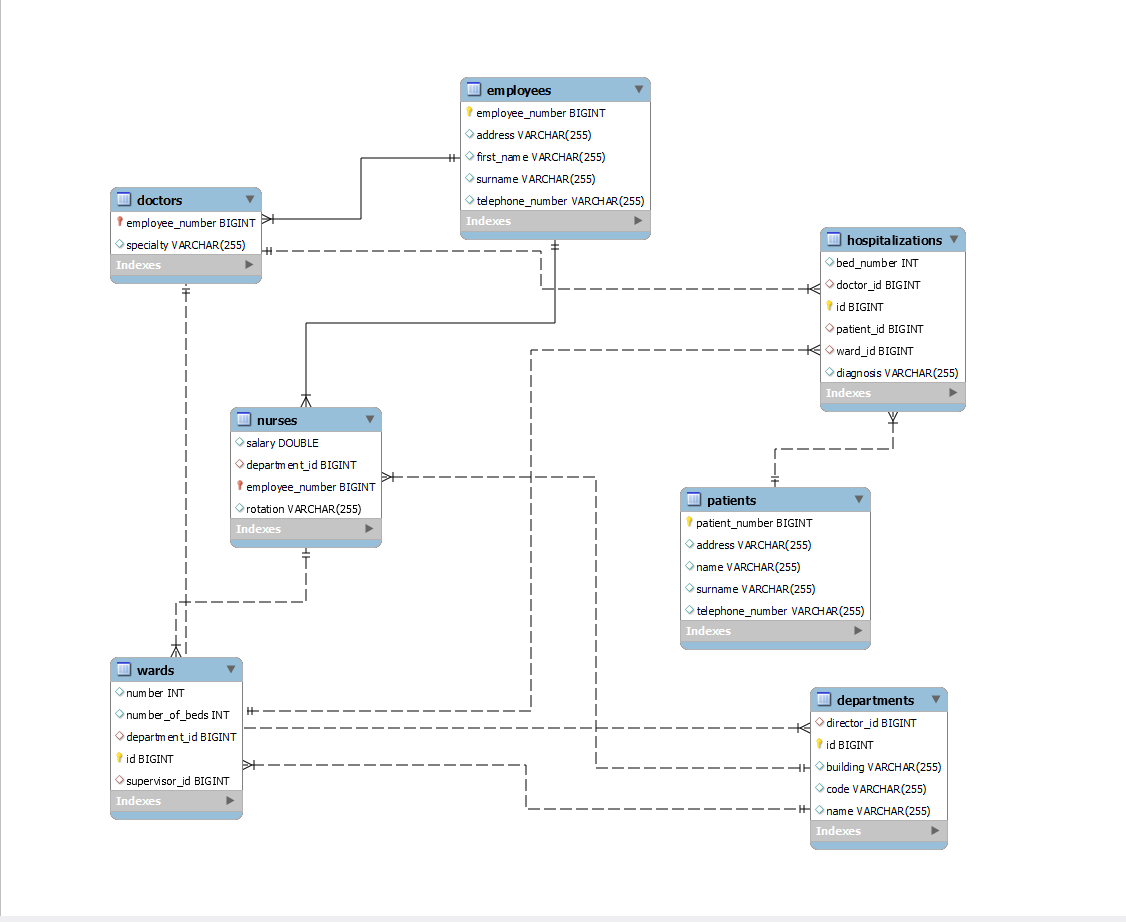
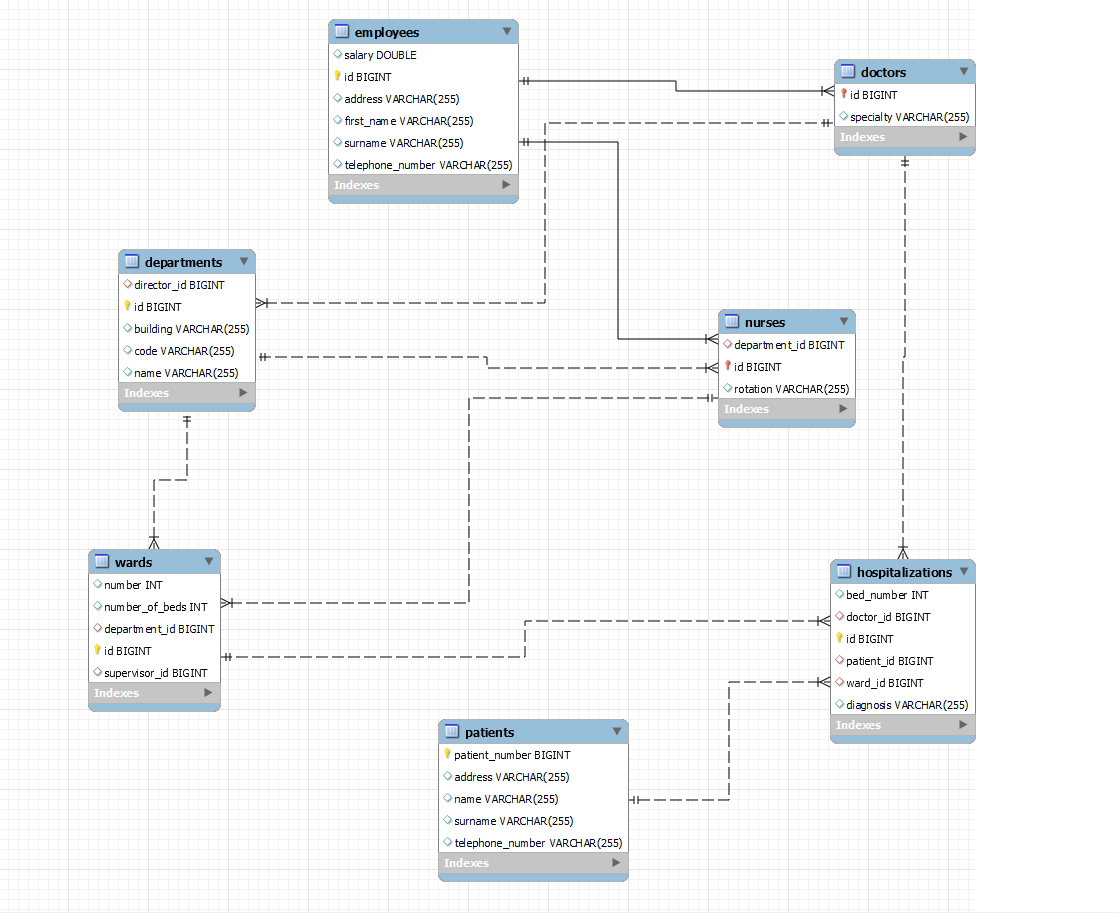
add models and jpa repositories to codebase

diff --git a/src/main/java/com/advanced_lab/models/Employee.java b/src/main/java/com/advanced_lab/models/Employee.java
@@ -9,13 +9,14 @@ import lombok.*;
 @Data
 @NoArgsConstructor
 @AllArgsConstructor
-public class Employee {
+public abstract class Employee {
     @Id
     @GeneratedValue(strategy = GenerationType.IDENTITY)
-    private Long employeeNumber;
+    private Long id;
 
     private String surname;
     private String firstName;
     private String address;
     private String telephoneNumber;
+    private Double salary;
 }

diff --git a/src/main/java/com/advanced_lab/models/Nurse.java b/src/main/java/com/advanced_lab/models/Nurse.java
@@ -10,10 +10,9 @@ import lombok.*;
 @Data
 @NoArgsConstructor
 @AllArgsConstructor
-@EqualsAndHashCode(callSuper = true)
+@DiscriminatorValue("Nurse")
 public class Nurse extends Employee {
     private String rotation;
-    private Double salary;
 
     @ManyToOne
     @JoinColumn(name = "department_id")

diff --git a/src/main/java/com/advanced_lab/repositories/HospitalizationRepository.java b/src/main/java/com/advanced_lab/repositories/HospitalizationRepository.java
@@ -1,0 +1,7 @@
+package com.advanced_lab.repositories;
+
+import com.advanced_lab.models.Hospitalization;
+import org.springframework.data.jpa.repository.JpaRepository;
+
+public interface HospitalizationRepository extends JpaRepository<Hospitalization, Long> {
+}

diff --git a/src/main/java/com/advanced_lab/repositories/EmployeeRepository.java b/src/main/java/com/advanced_lab/repositories/EmployeeRepository.java
@@ -1,0 +1,7 @@
+package com.advanced_lab.repositories;
+
+import com.advanced_lab.models.Employee;
+import org.springframework.data.jpa.repository.JpaRepository;
+
+public interface EmployeeRepository extends JpaRepository<Employee, Long> {
+}

diff --git a/src/main/java/com/advanced_lab/repositories/PatientRepository.java b/src/main/java/com/advanced_lab/repositories/PatientRepository.java
@@ -1,0 +1,7 @@
+package com.advanced_lab.repositories;
+
+import com.advanced_lab.models.Patient;
+import org.springframework.data.jpa.repository.JpaRepository;
+
+public interface PatientRepository extends JpaRepository<Patient, Long> {
+}

diff --git a/src/main/java/com/advanced_lab/repositories/NurseRepository.java b/src/main/java/com/advanced_lab/repositories/NurseRepository.java
@@ -1,0 +1,7 @@
+package com.advanced_lab.repositories;
+
+import com.advanced_lab.models.Nurse;
+import org.springframework.data.jpa.repository.JpaRepository;
+
+public interface NurseRepository extends JpaRepository<Nurse, Long> {
+}

diff --git a/src/main/java/com/advanced_lab/repositories/WardRepository.java b/src/main/java/com/advanced_lab/repositories/WardRepository.java
@@ -1,0 +1,7 @@
+package com.advanced_lab.repositories;
+
+import com.advanced_lab.models.Ward;
+import org.springframework.data.jpa.repository.JpaRepository;
+
+public interface WardRepository extends JpaRepository<Ward, Long> {
+}

diff --git a/src/main/java/com/advanced_lab/models/Doctor.java b/src/main/java/com/advanced_lab/models/Doctor.java
@@ -9,7 +9,7 @@ import lombok.*;
 @Data
 @NoArgsConstructor
 @AllArgsConstructor
-@EqualsAndHashCode(callSuper = true)
+@DiscriminatorValue("Doctor")
 public class Doctor extends Employee {
     private String specialty;
 

diff --git a/src/main/java/com/advanced_lab/repositories/DoctorRepository.java b/src/main/java/com/advanced_lab/repositories/DoctorRepository.java
@@ -1,0 +1,5 @@
+import com.advanced_lab.models.Doctor;
+import org.springframework.data.jpa.repository.JpaRepository;
+
+public interface DoctorRepository extends JpaRepository<Doctor, Long> {
+}
